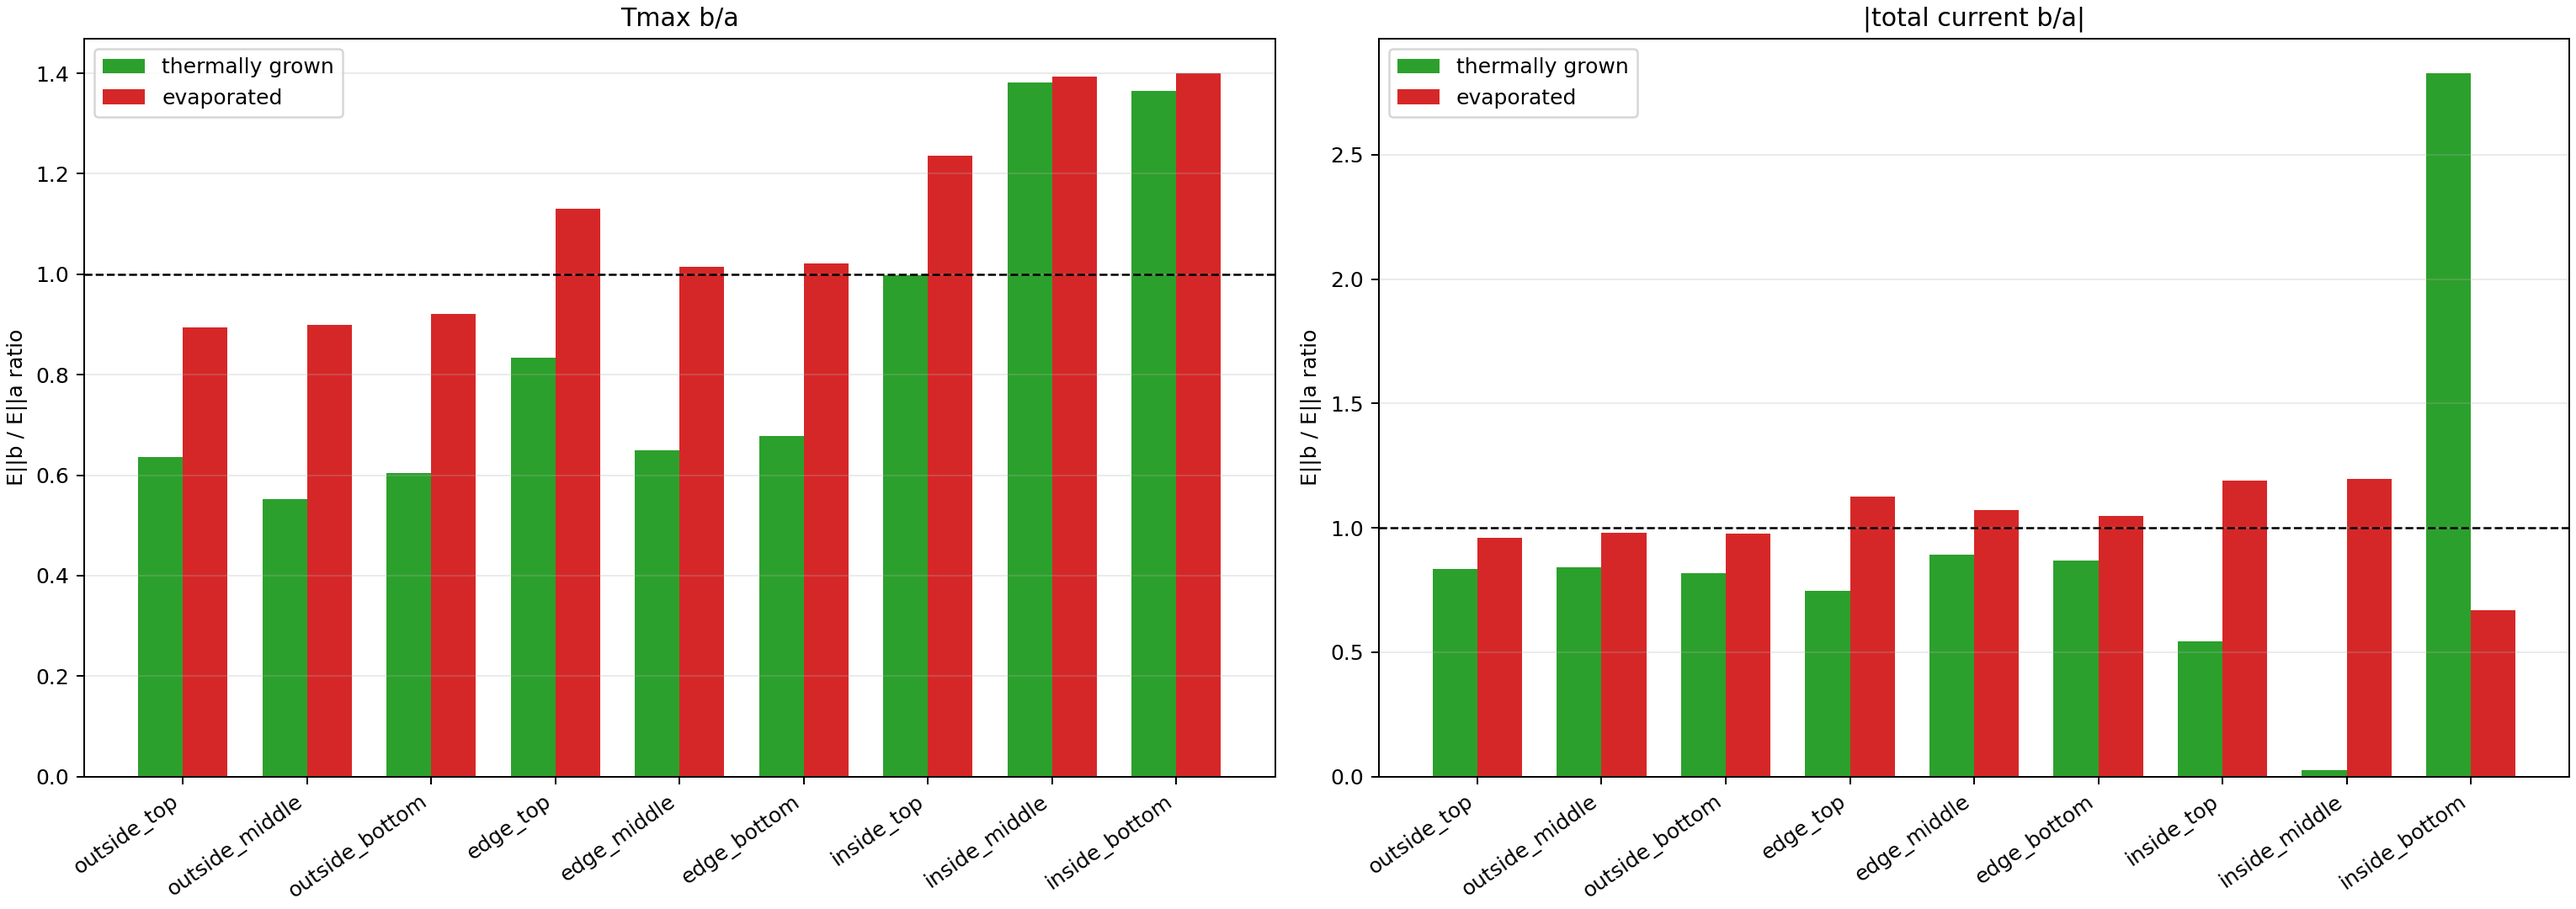
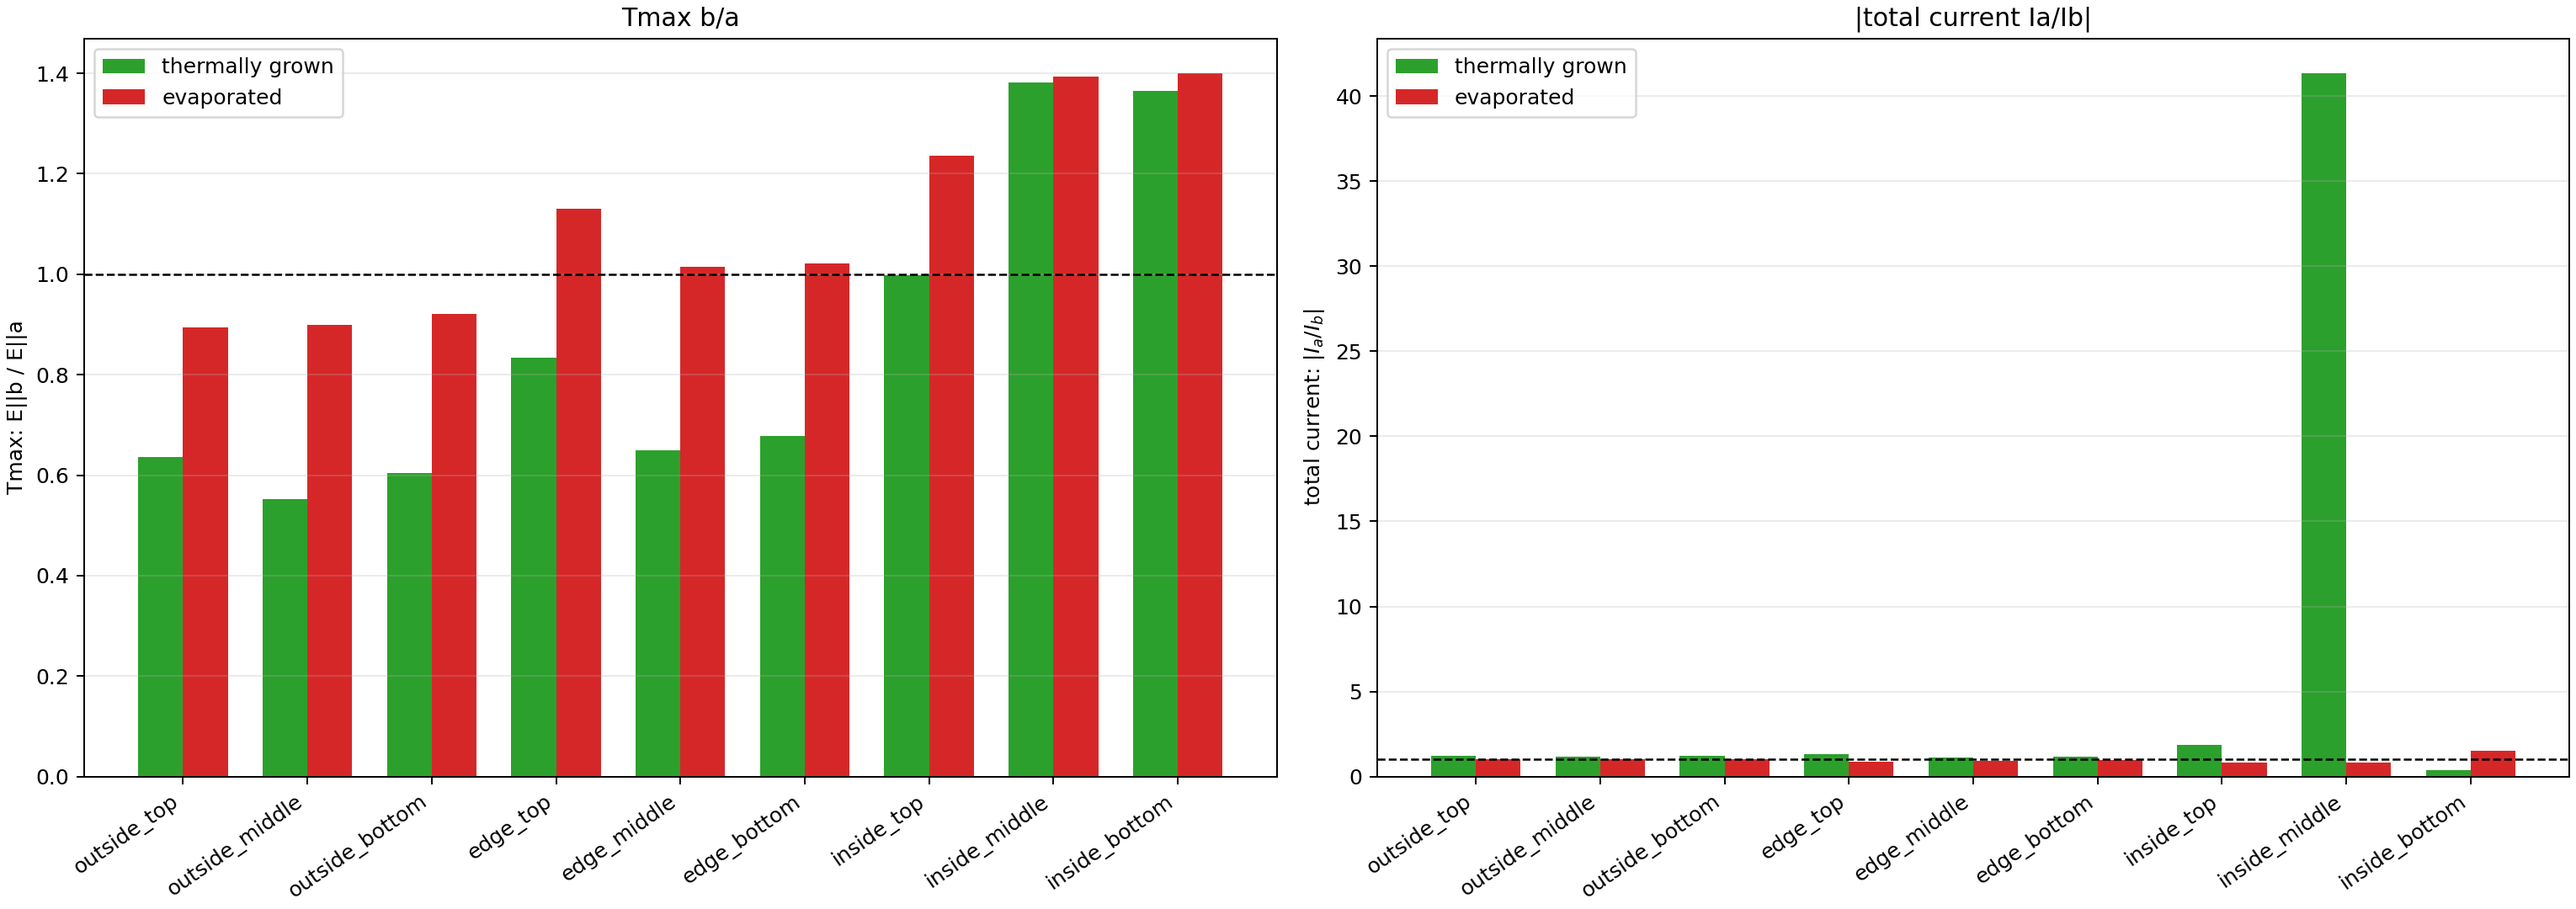
Report total current Ia over Ib ratios

diff --git a/photothermal_pte/validation/paper_ir_sanity/summarize_device_a_nine_position_results.py b/photothermal_pte/validation/paper_ir_sanity/summarize_device_a_nine_position_results.py
@@ -431,20 +431,24 @@ def make_summary_plots(rows: list[dict[str, Any]], output_dir: Path) -> list[Pat
     x = np.arange(len(labels))
     width = 0.36
     for offset, scenario, color in ((-width/2, "thermally_grown", "tab:green"), (width/2, "evaporated", "tab:red")):
-        for metric, ax, title in (("Tmax_rise_K", axes[0], "Tmax b/a"), ("total_current_A", axes[1], "|total current b/a|")):
+        for metric, ax, title in (("Tmax_rise_K", axes[0], "Tmax b/a"), ("total_current_A", axes[1], "|total current Ia/Ib|")):
             values = []
             for label in labels:
                 a = next(r for r in rows if r["scenario"] == scenario and r["position"] == label and r["polarization"] == "a")[metric]
                 b = next(r for r in rows if r["scenario"] == scenario and r["position"] == label and r["polarization"] == "b")[metric]
-                values.append(abs(b/a) if a != 0.0 else np.nan)
+                if metric == "total_current_A":
+                    values.append(abs(a / b) if b != 0.0 else np.nan)
+                else:
+                    values.append(abs(b / a) if a != 0.0 else np.nan)
             ax.bar(x + offset, values, width, label=scenario.replace("_", " "), color=color)
             ax.set_title(title)
     for ax in axes:
         ax.axhline(1.0, color="black", linestyle="--", linewidth=1)
         ax.set_xticks(x, labels, rotation=35, ha="right")
-        ax.set_ylabel("E||b / E||a ratio")
         ax.grid(axis="y", alpha=0.25)
         ax.legend()
+    axes[0].set_ylabel("Tmax: E||b / E||a")
+    axes[1].set_ylabel(r"total current: $|I_a/I_b|$")
     path = output_dir / "POLARIZATION_AND_INTERFACE_G_RATIOS.png"
     fig.savefig(path, dpi=180)
     plt.close(fig)
@@ -476,12 +480,12 @@ def paired_total_current_rows(rows: list[dict[str, Any]]) -> list[dict[str, Any]
                     "beam_y_a_um": selected["a"]["beam_y_a_um"],
                     "total_current_E_parallel_a_A": current_a,
                     "total_current_E_parallel_b_A": current_b,
-                    "signed_Eb_over_Ea": (
-                        current_b / current_a if current_a != 0.0 else np.nan
+                    "signed_Ea_over_Eb": (
+                        current_a / current_b if current_b != 0.0 else np.nan
                     ),
-                    "absolute_Eb_over_Ea": (
-                        abs(current_b / current_a)
-                        if current_a != 0.0
+                    "absolute_Ea_over_Eb": (
+                        abs(current_a / current_b)
+                        if current_b != 0.0
                         else np.nan
                     ),
                 }
@@ -520,13 +524,13 @@ def make_total_current_Ea_Eb_plot(
         axes[row_index, 0].legend()
         axes[row_index, 1].bar(
             x,
-            [row["absolute_Eb_over_Ea"] for row in selected],
+            [row["absolute_Ea_over_Eb"] for row in selected],
             color="tab:purple",
         )
         axes[row_index, 1].axhline(
             1.0, color="black", linestyle="--", linewidth=1.0
         )
-        axes[row_index, 1].set_ylabel(r"$|I_b/I_a|$")
+        axes[row_index, 1].set_ylabel(r"$|I_a/I_b|$")
         axes[row_index, 1].set_title(
             f"{scenario.replace('_', ' ')} SiO₂: polarization ratio"
         )
@@ -623,7 +627,7 @@ def main() -> int:
     report_path = args.output_dir / "DEVICE_A_NINE_POSITION_TWO_INTERFACE_REPORT.md"
     result_lines = [
         "| interface | position | total current E∥a (nA) | "
-        "total current E∥b (nA) | signed Ib/Ia | abs. Ib/Ia |",
+        "total current E∥b (nA) | signed Ia/Ib | abs. Ia/Ib |",
         "|---|---|---:|---:|---:|---:|",
     ]
     for row in paired_rows:
@@ -631,8 +635,8 @@ def main() -> int:
             f"| {row['scenario']} | {row['position']} | "
             f"{row['total_current_E_parallel_a_A'] * 1e9:.6g} | "
             f"{row['total_current_E_parallel_b_A'] * 1e9:.6g} | "
-            f"{row['signed_Eb_over_Ea']:.6g} | "
-            f"{row['absolute_Eb_over_Ea']:.6g} |"
+            f"{row['signed_Ea_over_Eb']:.6g} | "
+            f"{row['absolute_Ea_over_Eb']:.6g} |"
         )
     figure_lines = [
         "## Figure gallery",

diff --git a/photothermal_pte/reports/paper_ir_device_a_nine_position_two_interface/DEVICE_A_NINE_POSITION_TWO_INTERFACE_REPORT.md b/photothermal_pte/reports/paper_ir_device_a_nine_position_two_interface/DEVICE_A_NINE_POSITION_TWO_INTERFACE_REPORT.md
@@ -118,26 +118,26 @@ Every panel below uses Lumerical **x = crystal b, y = crystal a** and shows, fro
 
 ## Results
 
-| interface | position | total current E∥a (nA) | total current E∥b (nA) | signed Ib/Ia | abs. Ib/Ia |
+| interface | position | total current E∥a (nA) | total current E∥b (nA) | signed Ia/Ib | abs. Ia/Ib |
 |---|---|---:|---:|---:|---:|
-| thermally_grown | outside_top | 11.2904 | 9.4382 | 0.835953 | 0.835953 |
-| thermally_grown | outside_middle | 13.6215 | 11.4766 | 0.84254 | 0.84254 |
-| thermally_grown | outside_bottom | 12.8196 | 10.4744 | 0.817059 | 0.817059 |
-| thermally_grown | edge_top | 22.0453 | 16.4755 | 0.747349 | 0.747349 |
-| thermally_grown | edge_middle | 19.0614 | 16.9883 | 0.89124 | 0.89124 |
-| thermally_grown | edge_bottom | 15.9784 | 13.8992 | 0.869875 | 0.869875 |
-| thermally_grown | inside_top | 18.7985 | 10.1918 | 0.542157 | 0.542157 |
-| thermally_grown | inside_middle | 4.97608 | 0.120389 | 0.0241936 | 0.0241936 |
-| thermally_grown | inside_bottom | -1.88358 | -5.32404 | 2.82655 | 2.82655 |
-| evaporated | outside_top | 180.72 | 173.506 | 0.960085 | 0.960085 |
-| evaporated | outside_middle | 219.234 | 214.987 | 0.980627 | 0.980627 |
-| evaporated | outside_bottom | 197.363 | 192.726 | 0.976501 | 0.976501 |
-| evaporated | edge_top | 505.076 | 568.395 | 1.12536 | 1.12536 |
-| evaporated | edge_middle | 359.248 | 384.585 | 1.07053 | 1.07053 |
-| evaporated | edge_bottom | 273.554 | 286.713 | 1.04811 | 1.04811 |
-| evaporated | inside_top | 552.087 | 656.555 | 1.18922 | 1.18922 |
-| evaporated | inside_middle | 314.85 | 376.529 | 1.1959 | 1.1959 |
-| evaporated | inside_bottom | 47.3771 | 31.7418 | 0.669983 | 0.669983 |
+| thermally_grown | outside_top | 11.2904 | 9.4382 | 1.19624 | 1.19624 |
+| thermally_grown | outside_middle | 13.6215 | 11.4766 | 1.18689 | 1.18689 |
+| thermally_grown | outside_bottom | 12.8196 | 10.4744 | 1.2239 | 1.2239 |
+| thermally_grown | edge_top | 22.0453 | 16.4755 | 1.33806 | 1.33806 |
+| thermally_grown | edge_middle | 19.0614 | 16.9883 | 1.12203 | 1.12203 |
+| thermally_grown | edge_bottom | 15.9784 | 13.8992 | 1.14959 | 1.14959 |
+| thermally_grown | inside_top | 18.7985 | 10.1918 | 1.84448 | 1.84448 |
+| thermally_grown | inside_middle | 4.97608 | 0.120389 | 41.3333 | 41.3333 |
+| thermally_grown | inside_bottom | -1.88358 | -5.32404 | 0.353788 | 0.353788 |
+| evaporated | outside_top | 180.72 | 173.506 | 1.04157 | 1.04157 |
+| evaporated | outside_middle | 219.234 | 214.987 | 1.01976 | 1.01976 |
+| evaporated | outside_bottom | 197.363 | 192.726 | 1.02406 | 1.02406 |
+| evaporated | edge_top | 505.076 | 568.395 | 0.888601 | 0.888601 |
+| evaporated | edge_middle | 359.248 | 384.585 | 0.934116 | 0.934116 |
+| evaporated | edge_bottom | 273.554 | 286.713 | 0.954102 | 0.954102 |
+| evaporated | inside_top | 552.087 | 656.555 | 0.840884 | 0.840884 |
+| evaporated | inside_middle | 314.85 | 376.529 | 0.836191 | 0.836191 |
+| evaporated | inside_bottom | 47.3771 | 31.7418 | 1.49257 | 1.49257 |
 
 Each per-case PNG uses the same Lumerical coordinate bounds for both polarizations and shows, in order, mapped Q, thickness-averaged temperature rise, dT/dx (crystal b), dT/dy (crystal a), gradient magnitude, and the strict-centered local current contribution. Gray cells explicitly mark NaN/masked locations where at least one of -x, +x, -y, or +y TaIrTe4 neighbours is missing.
 

diff --git a/photothermal_pte/reports/LATEST_STATUS.md b/photothermal_pte/reports/LATEST_STATUS.md
@@ -1958,7 +1958,7 @@ adjoint, gradient, and optimization were not run.
   missing-neighbour cells are `NaN` unless all `-x`, `+x`, `-y`, and `+y`
   TaIrTe4 neighbours exist. This strict interior value is diagnostic only.
 - Thermally-grown and evaporated interfaces use the same full-footprint
-  quadrature and are tabulated as paired `I_a`, `I_b`, and `I_b/I_a` values.
+  quadrature and are tabulated as paired `I_a`, `I_b`, and `I_a/I_b` values.
 - No optical or thermal solve was repeated for this offline post-processing
   correction.
 - Validation: 137 offline tests passed.
